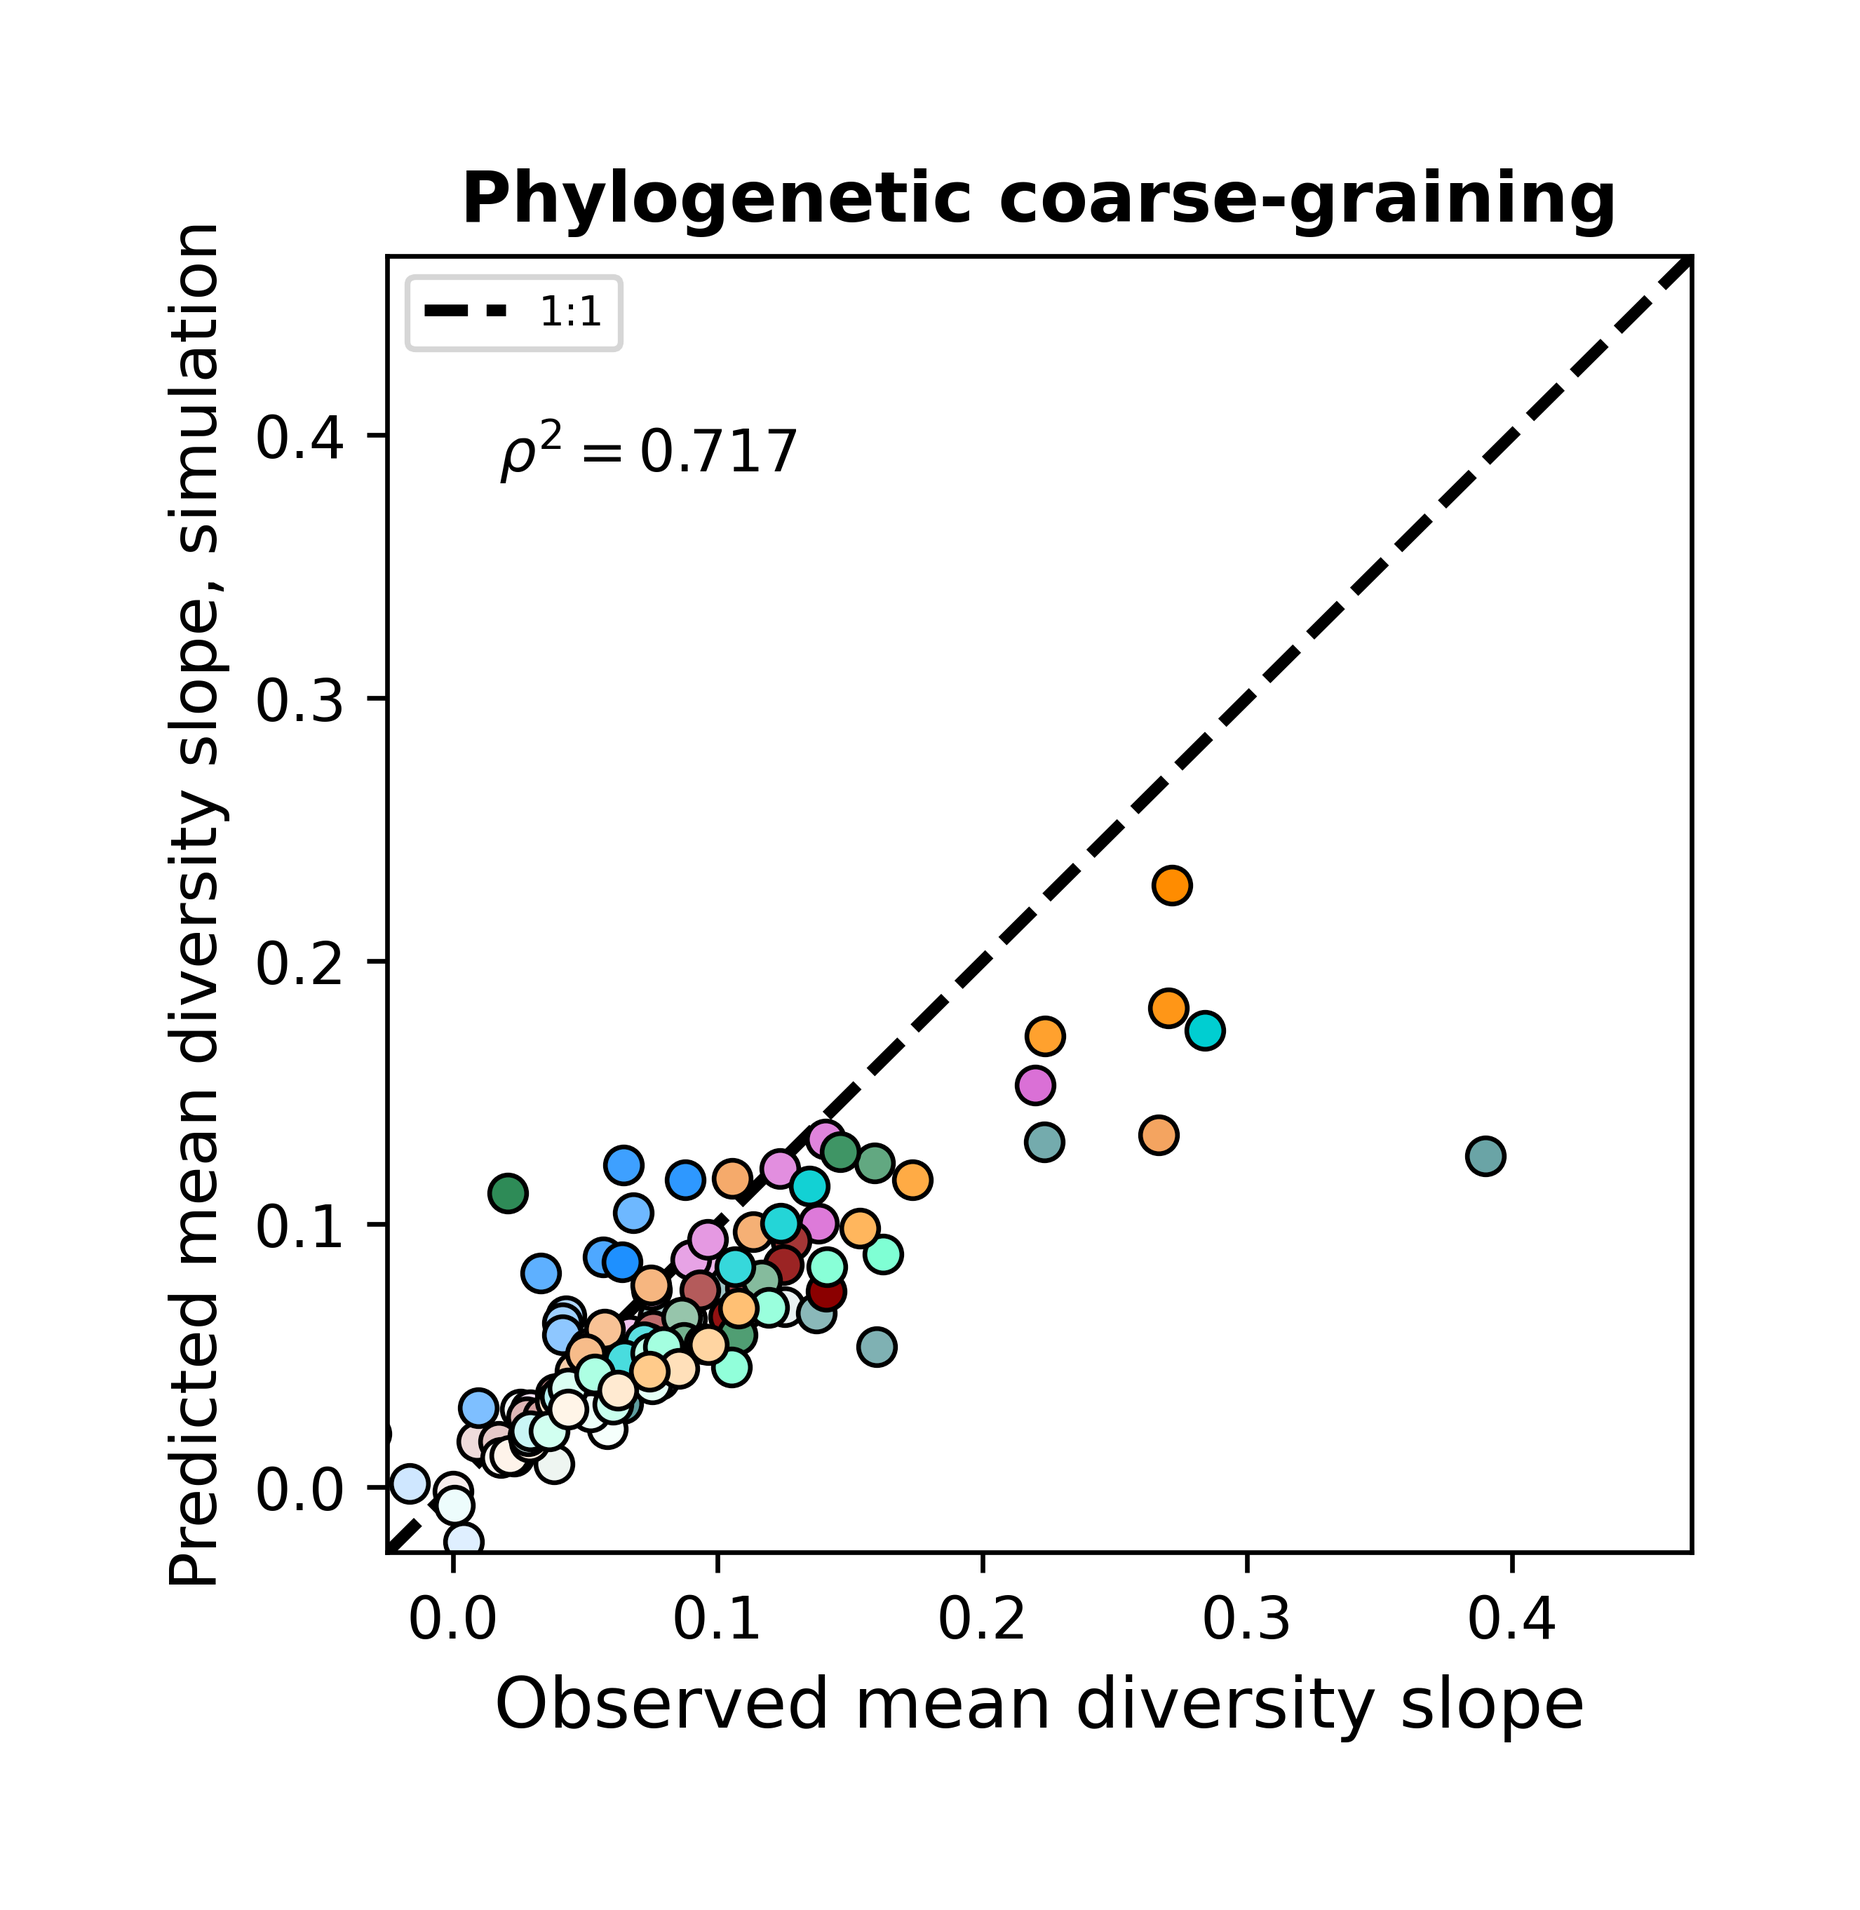
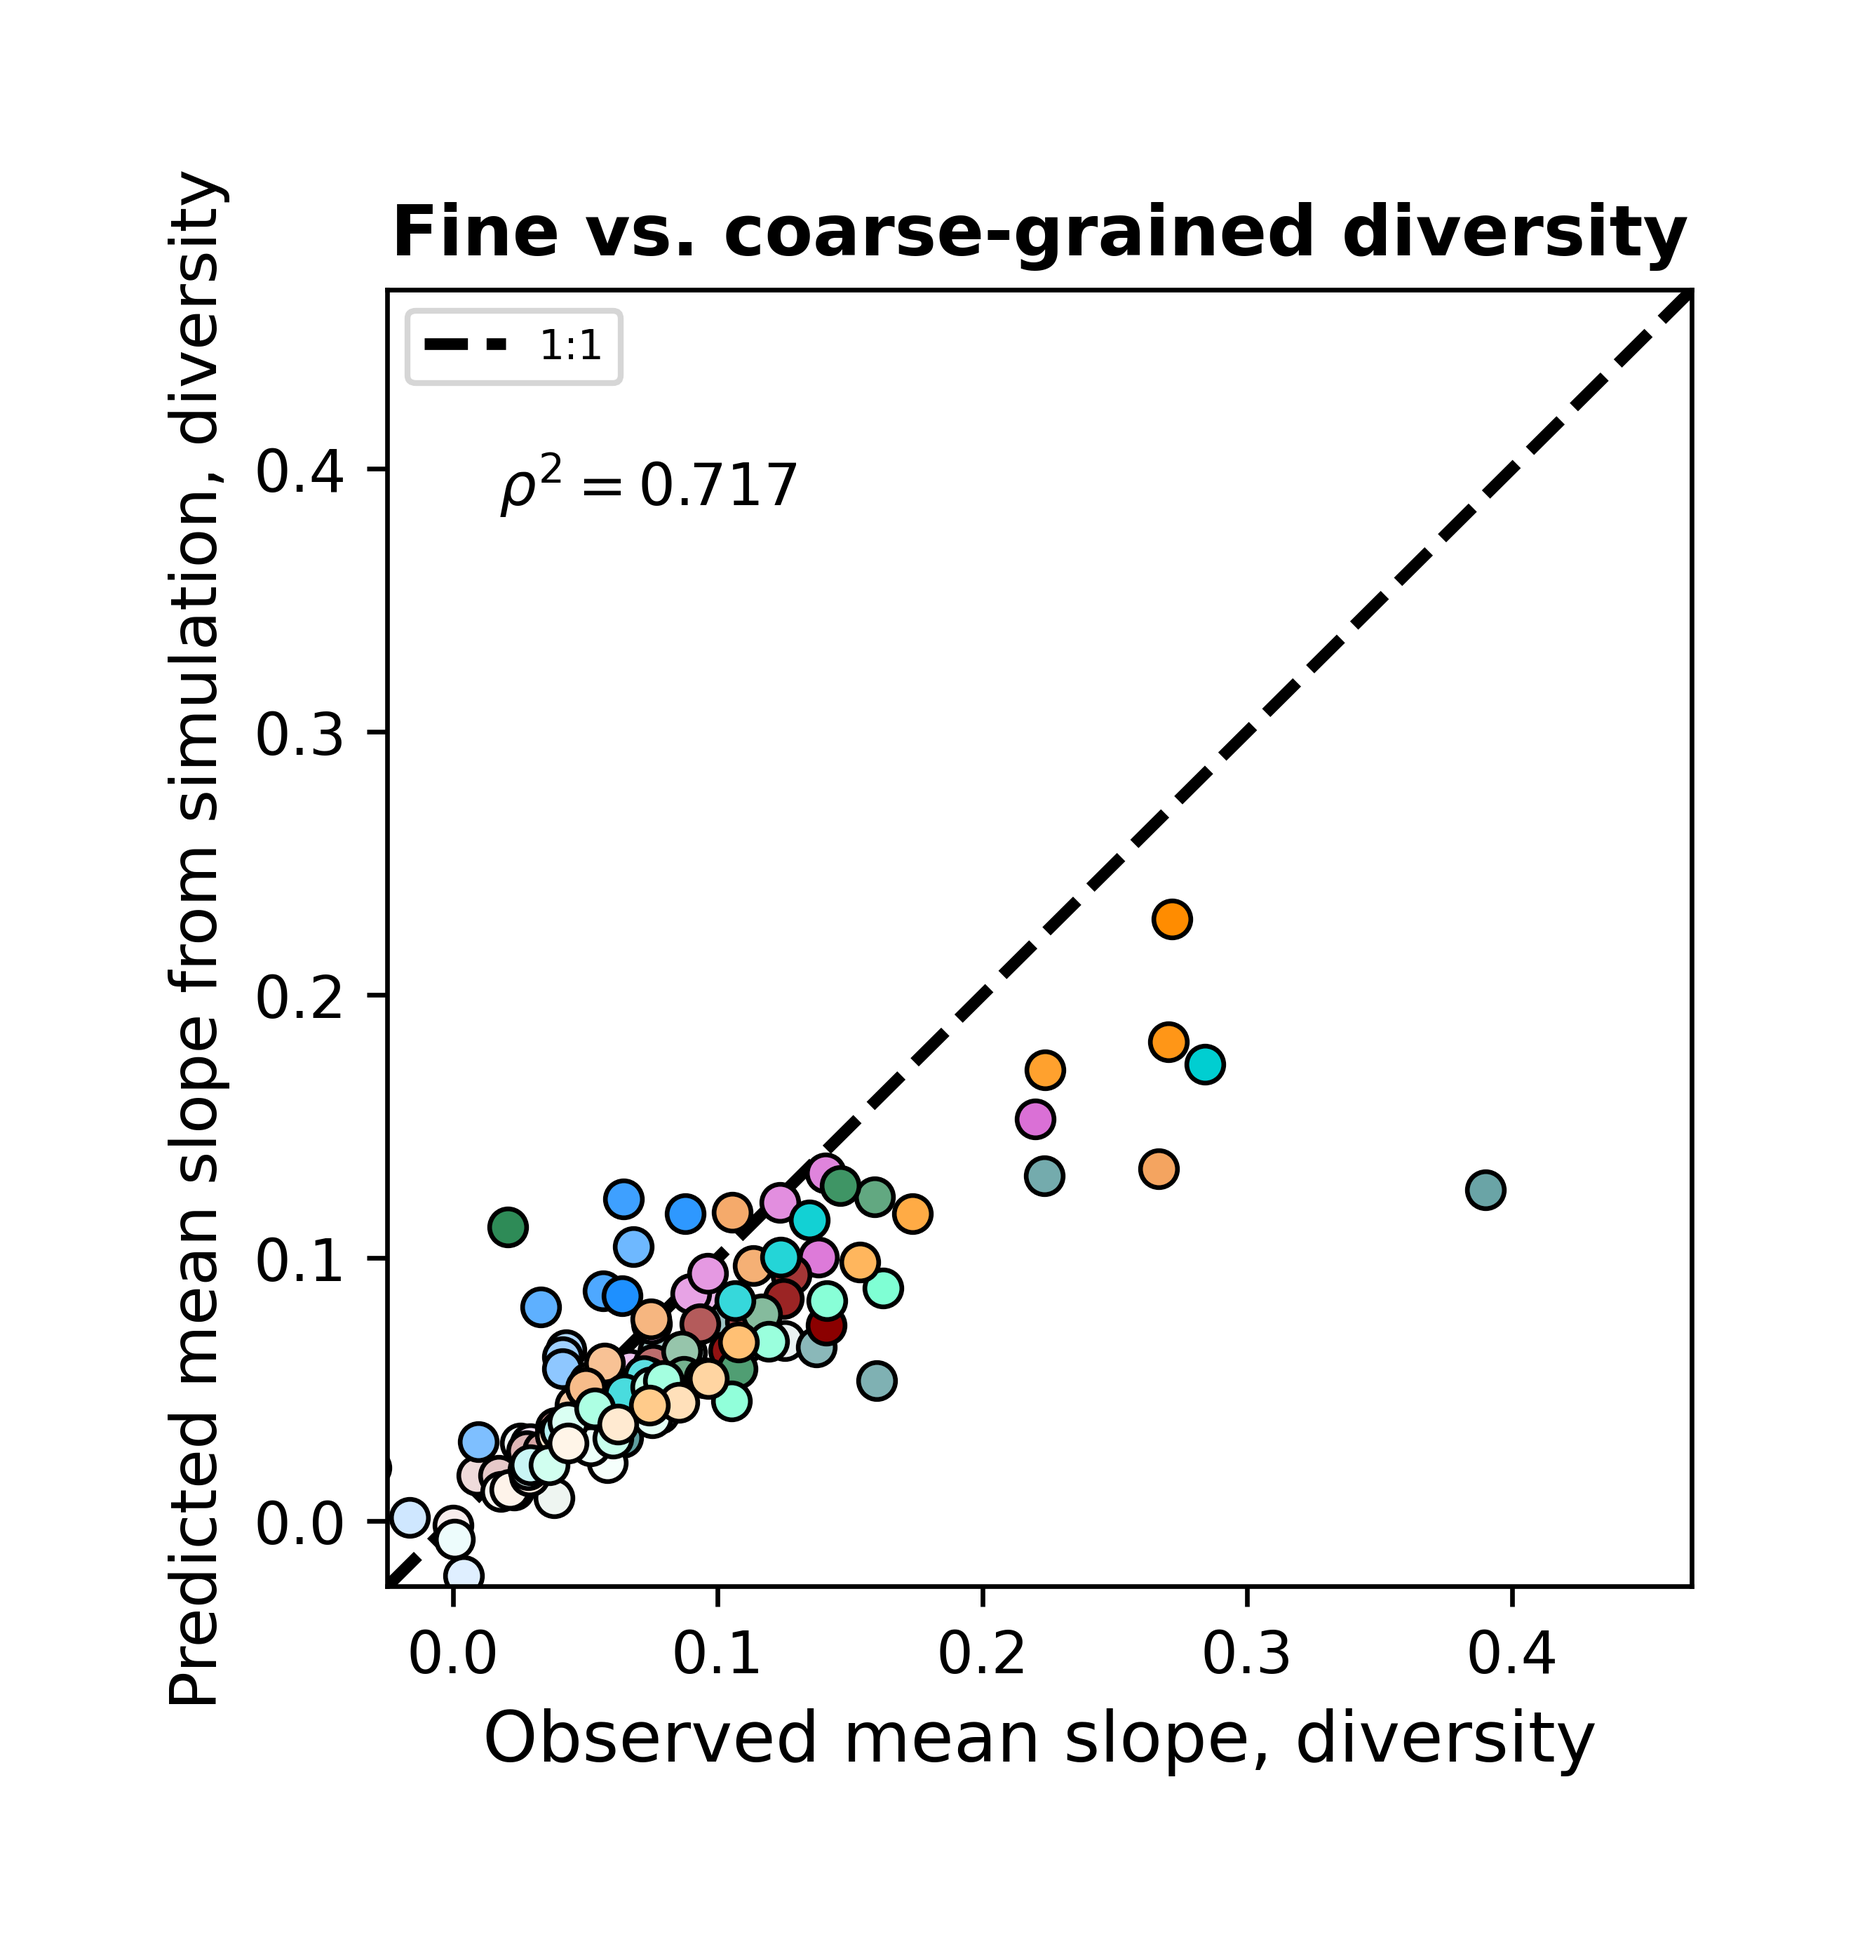
cleanup for submission

diff --git a/scripts/plot_dbd_diversity_slm_simulation_mean_phylo.py b/scripts/plot_dbd_diversity_slm_simulation_mean_phylo.py
@@ -158,9 +158,9 @@ ax.legend(loc="upper left", fontsize=7)
 
 #ax_richness_taxon.legend(handles=plot_utils.legend_elements, loc='upper left', fontsize=7)
 
-ax.set_xlabel("Observed mean diversity slope", fontsize = 12)
-ax.set_ylabel("Predicted mean diversity slope, simulation", fontsize = 11)
-ax.set_title("Phylogenetic coarse-graining", fontsize=12, fontweight='bold')
+ax.set_xlabel("Observed mean slope, diversity", fontsize = 12)
+ax.set_ylabel("Predicted mean slope from simulation, diversity", fontsize = 11)
+ax.set_title("Fine vs. coarse-grained diversity", fontsize=12, fontweight='bold')
 ax.text(0.2, 0.85, r'$\rho^{2} =$' + str(round(phylo_rho, 3)), fontsize=10, ha='center', va='center', transform=ax.transAxes)
 
 #ax_phylo.plot([phylo_min,phylo_max], [phylo_min,phylo_max], lw=2,ls='--',c='k',zorder=1, label='1:1')
